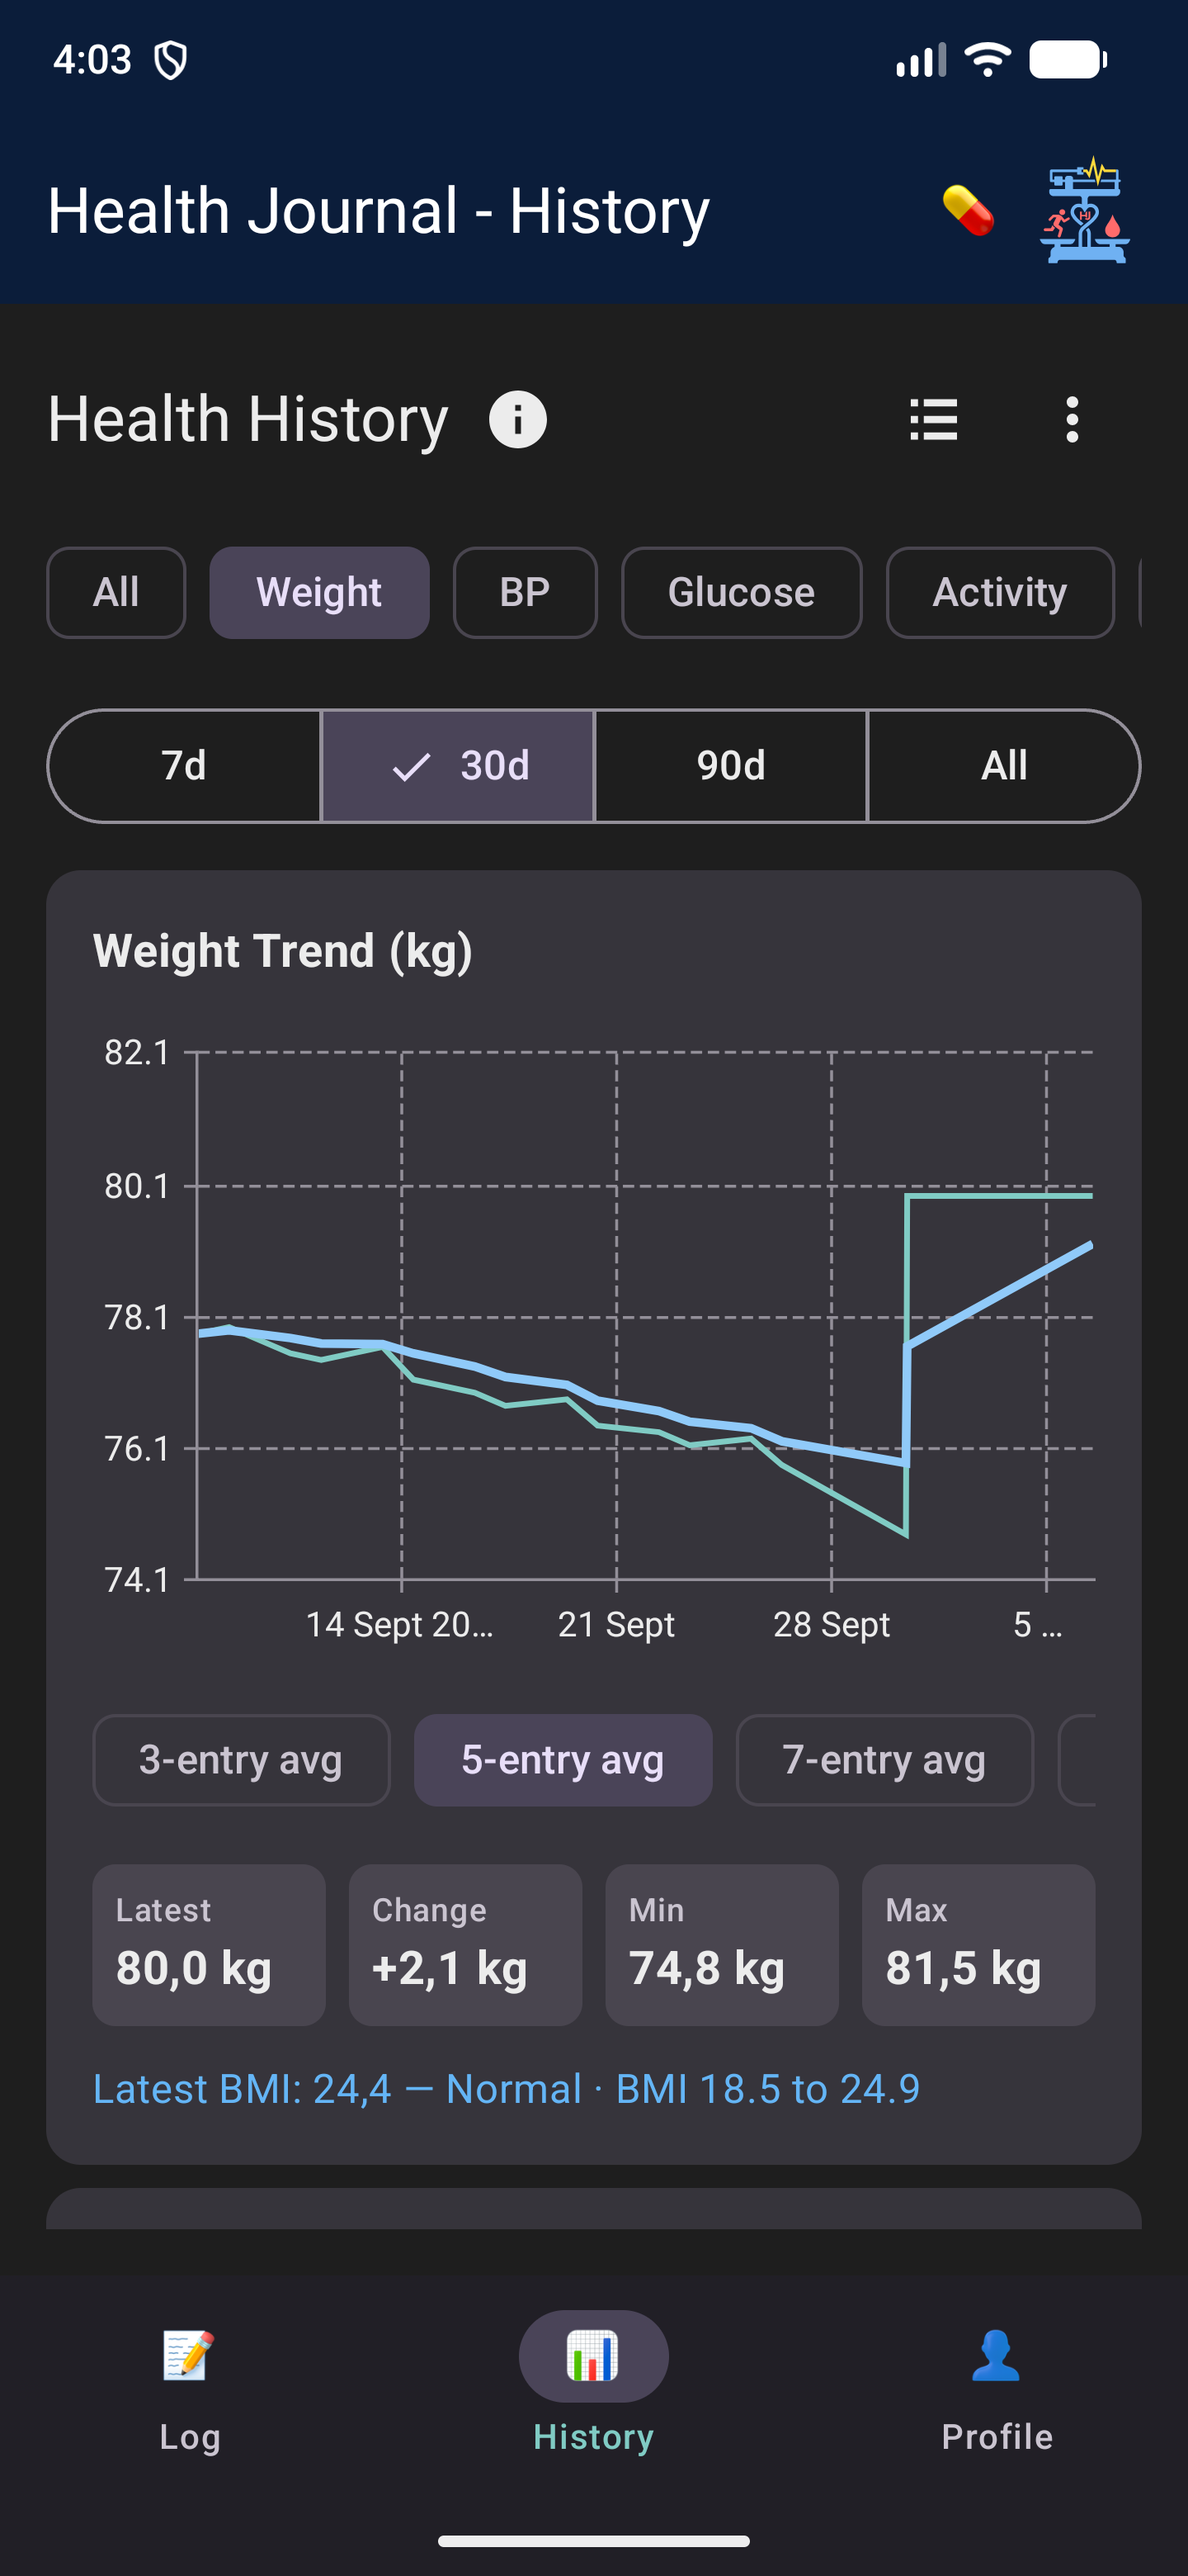
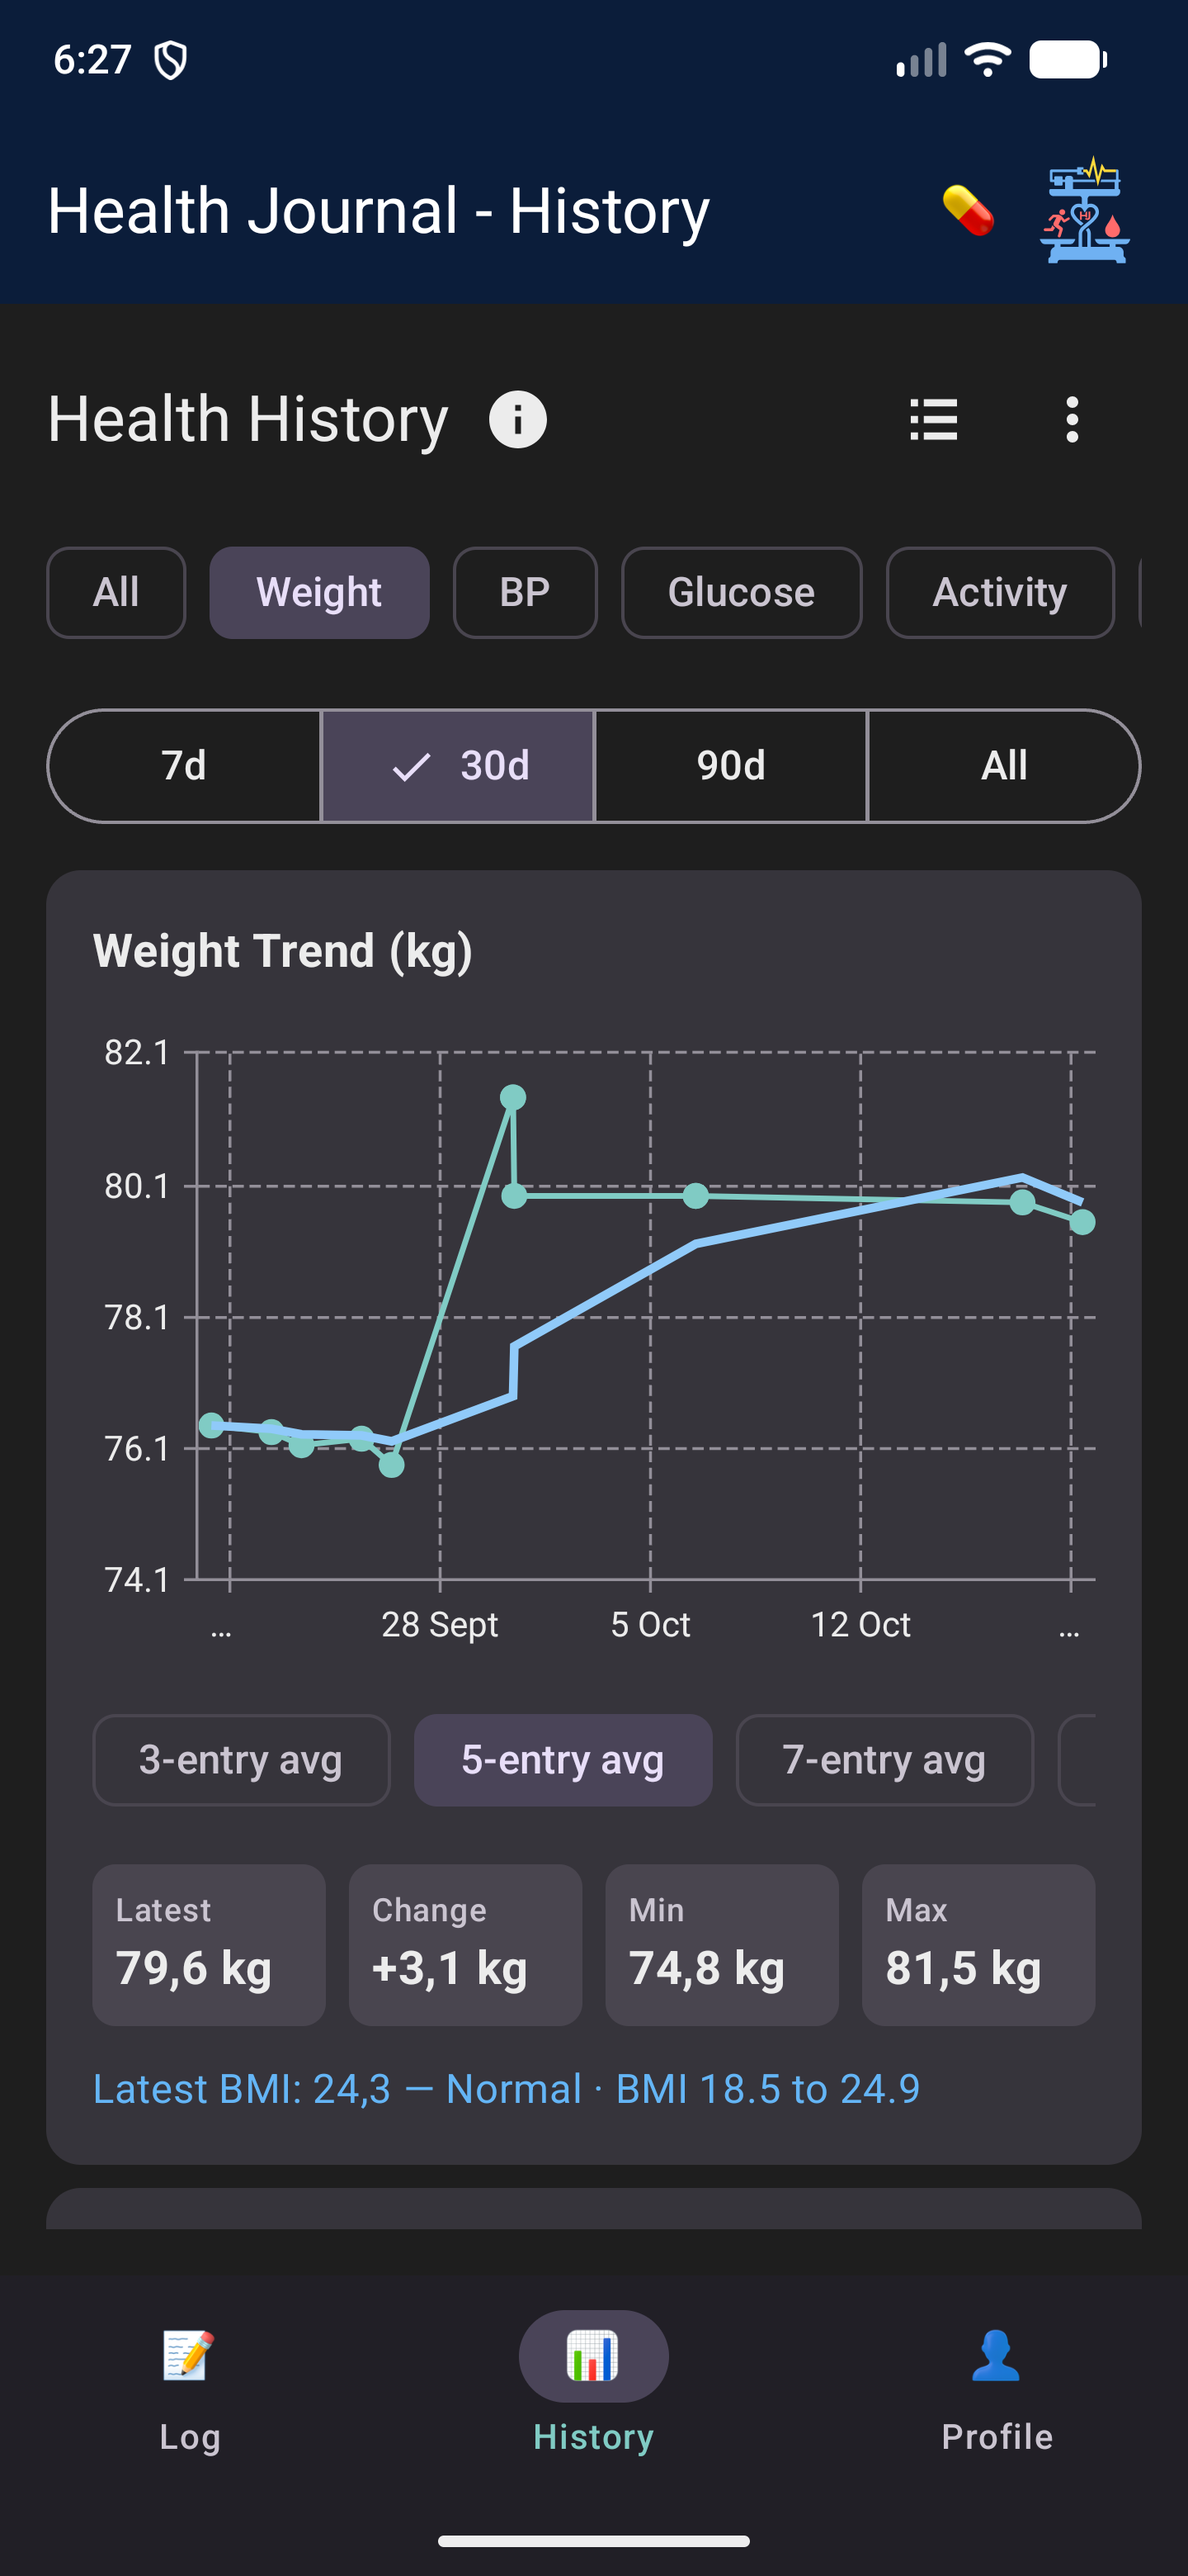
feat(app): chart dots shrink on long histories; chore: release 1.5.8
Dots on weight, waist and glucose charts scale from 9 dp (up to 30 points)
to 3 dp (300 points and more) instead of disappearing past 60 points.
Dutch: Tijd in bereik. Retaken history graph screenshots.

diff --git a/app/src/main/java/nl/healthjournal/app/ui/history/charts/ChartPrimitives.kt b/app/src/main/java/nl/healthjournal/app/ui/history/charts/ChartPrimitives.kt
@@ -37,14 +37,25 @@ import java.time.Instant
 import java.time.ZoneId
 import kotlin.math.max
 
-/** Beyond this many points a series is drawn as a plain line: markers would merge into a thick band. */
-private const val MAX_MARKED_POINTS = 60
+private const val FULL_SIZE_POINTS = 30
+private const val SMALLEST_SIZE_POINTS = 300
+private const val FULL_MARKER_DP = 9f
+private const val SMALLEST_MARKER_DP = 3f
+
+/**
+ * Marker diameter in dp for a series of [pointCount] points: full size up to 30 points, shrinking linearly to
+ * 3 dp at 300 points and more, so dots on a long history never merge into a thick band.
+ */
+internal fun markerSizeDp(pointCount: Int): Float {
+    val t = ((pointCount - FULL_SIZE_POINTS).toFloat() / (SMALLEST_SIZE_POINTS - FULL_SIZE_POINTS)).coerceIn(0f, 1f)
+    return FULL_MARKER_DP + (SMALLEST_MARKER_DP - FULL_MARKER_DP) * t
+}
 
 data class ChartPoint(val timestamp: Instant, val value: Float)
 
 /**
  * One line. [pointColors], when given, is parallel to [points] and draws a marker per point in that colour
- * (used to tint readings by band); without it, or with more than 60 points, the line has no markers.
+ * (used to tint readings by band); the markers shrink as the series grows, see [markerSizeDp].
  */
 data class ChartSeries(
     val points: List<ChartPoint>,
@@ -117,9 +128,7 @@ fun LineTrendChart(
             LineCartesianLayer.Line(
                 fill = LineCartesianLayer.LineFill.single(Fill(s.color)),
                 stroke = LineCartesianLayer.LineStroke.Continuous(thickness = s.strokeWidthDp.dp),
-                pointProvider = s.pointColors
-                    ?.takeIf { s.points.size <= MAX_MARKED_POINTS }
-                    ?.let { colors -> tintedPoints(s, colors, referenceEpochSecond) }
+                pointProvider = s.pointColors?.let { colors -> tintedPoints(s, colors, referenceEpochSecond) }
             )
         }
     )
@@ -150,7 +159,6 @@ fun LineTrendChart(
 }
 
 private const val SECONDS_PER_HOUR = 3600L
-private val MarkerSize = 9.dp
 
 /** Markers keyed by the x-value ([hoursSince]) of their point, so each reading keeps its own colour. */
 private class TintedPointProvider(
@@ -163,14 +171,15 @@ private class TintedPointProvider(
 }
 
 private fun tintedPoints(series: ChartSeries, colors: List<Color>, referenceEpochSecond: Long): LineCartesianLayer.PointProvider {
+    val sizeDp = markerSizeDp(series.points.size)
     fun marker(color: Color) = LineCartesianLayer.Point(
         component = ShapeComponent(
             fill = Fill(color),
             shape = CircleShape,
             strokeFill = Fill(series.color),
-            strokeThickness = 1.5.dp
+            strokeThickness = (sizeDp / 6f).dp
         ),
-        size = MarkerSize
+        size = sizeDp.dp
     )
     val points = series.points.indices.associate { i ->
         hoursSince(referenceEpochSecond, series.points[i].timestamp).toDouble() to marker(colors[i])

diff --git a/app/src/test/java/nl/healthjournal/app/ui/history/charts/TrendChartLogicTest.kt b/app/src/test/java/nl/healthjournal/app/ui/history/charts/TrendChartLogicTest.kt
@@ -65,4 +65,13 @@ class TrendChartLogicTest {
         assertEquals("1 Jan 2026", formatTick(TickStep(TickUnit.DAY, 1, 1.0), jan, true, utc))
         assertEquals("1 Jan", formatTick(TickStep(TickUnit.DAY, 1, 1.0), jan, false, utc))
     }
+
+    @Test
+    fun `markers keep full size on short series and shrink on long ones`() {
+        assertEquals(9f, markerSizeDp(1), 1e-6f)
+        assertEquals(9f, markerSizeDp(30), 1e-6f)
+        assertEquals(6f, markerSizeDp(165), 1e-6f)
+        assertEquals(3f, markerSizeDp(300), 1e-6f)
+        assertEquals(3f, markerSizeDp(5000), 1e-6f)
+    }
 }

diff --git a/docs/dev/graphs.md b/docs/dev/graphs.md
@@ -69,5 +69,5 @@ Change: `openspec/changes/archive/` (`add-glucose-graphs`). Files: `GlucoseStati
 
 - `@Composable` functions (`MaterialTheme.colorScheme`, `getGlucoseColor`, `stringResource`) cannot be called from a plain local `fun` or non-inline lambda. Inline lambdas (`map`, `buildList`, `forEach`) are fine; otherwise compute colours first and pass them in.
 - `LineTrendChart` shows the empty message with fewer than two points in total. Guard series construction the way `WaistTrendSection` does.
-- `LineTrendChart` draws point markers only for series of at most 60 points (`MAX_MARKED_POINTS` in `ChartPrimitives.kt`); longer series are a plain line, otherwise the dots merge into a thick band.
+- Point markers shrink with the length of the series (`markerSizeDp` in `ChartPrimitives.kt`: 9 dp up to 30 points, 3 dp from 300). Do not give long series a fixed marker size, otherwise the dots merge into a thick band.
 - Do not trust the clock: use the newest entry as "now", and test with fixed dates.

diff --git a/README.md b/README.md
@@ -23,7 +23,7 @@ An offline-first, privacy-focused Android health logging application built with 
 
 You can download the ready-to-install Android APK directly from GitHub:
 
-👉 **[Download Latest APK (v1.5.7)](https://github.com/mannetje/health_journal/releases/latest)**  
+👉 **[Download Latest APK (v1.5.8)](https://github.com/mannetje/health_journal/releases/latest)**  
 See the [CHANGELOG](CHANGELOG.md) for what changed in each release.
 
 ---
@@ -234,7 +234,7 @@ Adherence is plain counting: taken divided by due, rounded half up, shown with t
 ### Method 1: Download from GitHub Releases (Easiest)
 
 1. Open **[GitHub Releases](https://github.com/mannetje/health_journal/releases/latest)** on your Android device.
-2. Download `health-journal-v1.5.7-debug.apk`.
+2. Download `health-journal-v1.5.8-debug.apk`.
 3. Tap the downloaded file in your browser/file manager.
 4. When prompted with *"Install unknown apps"*, allow permission and tap **Install**.
 

diff --git a/CHANGELOG.md b/CHANGELOG.md
@@ -4,6 +4,14 @@ All notable changes to Health Journal. Format follows [Keep a Changelog](https:/
 
 ## [Unreleased]
 
+## [1.5.8] - 2026-10-19
+
+### Changed
+- **Dots on long histories:** the dots on the weight, waist and glucose charts now shrink as the history grows (9 dp up to 30 points, 3 dp from 300 points) instead of disappearing beyond 60 points, so the "All" range shows dots too without merging into a thick band.
+
+### Fixed
+- Dutch: "Tijd in Bereik" is now "Tijd in bereik", like the other texts.
+
 ## [1.5.7] - 2026-10-19
 
 ### Added
